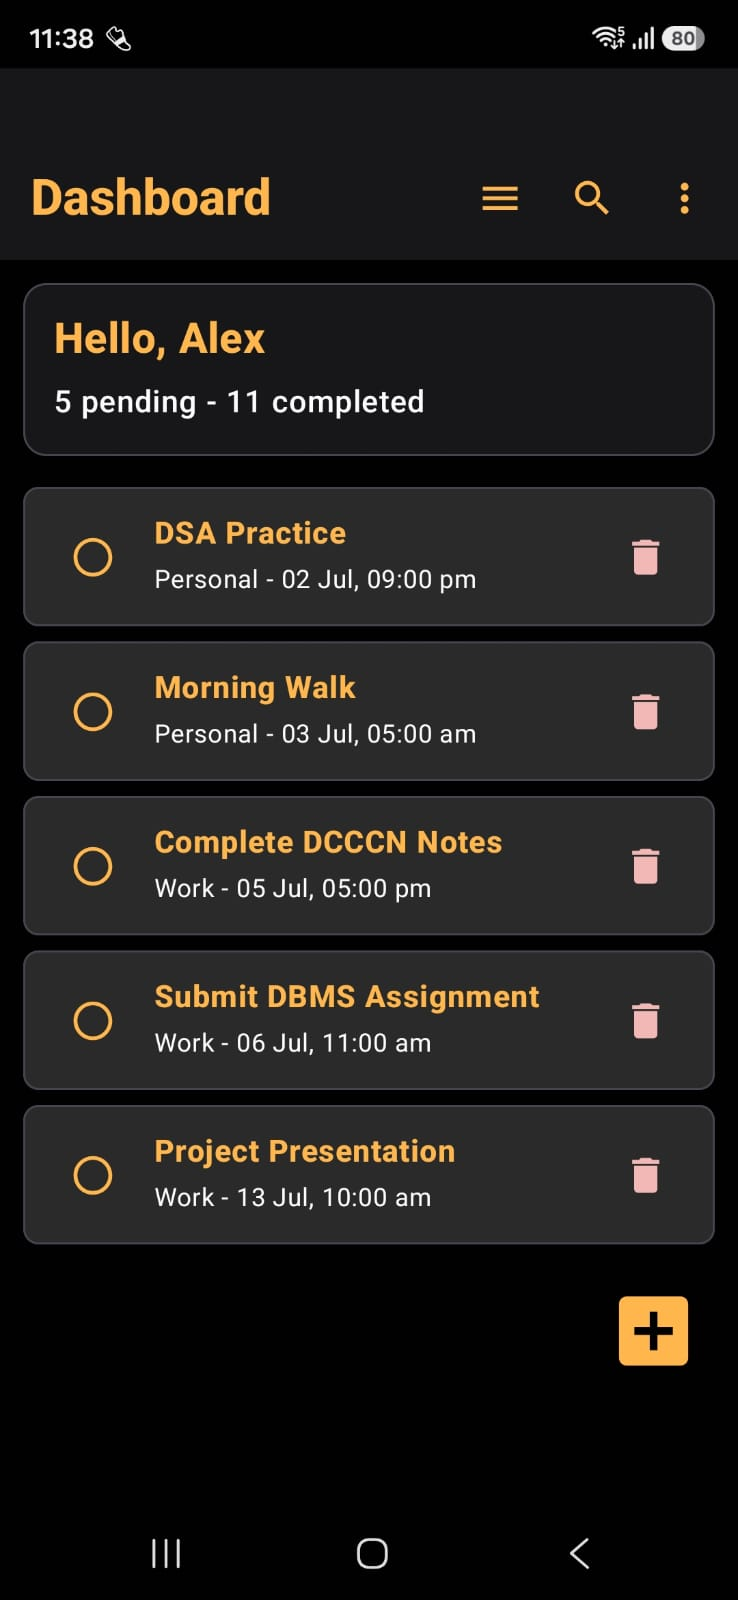
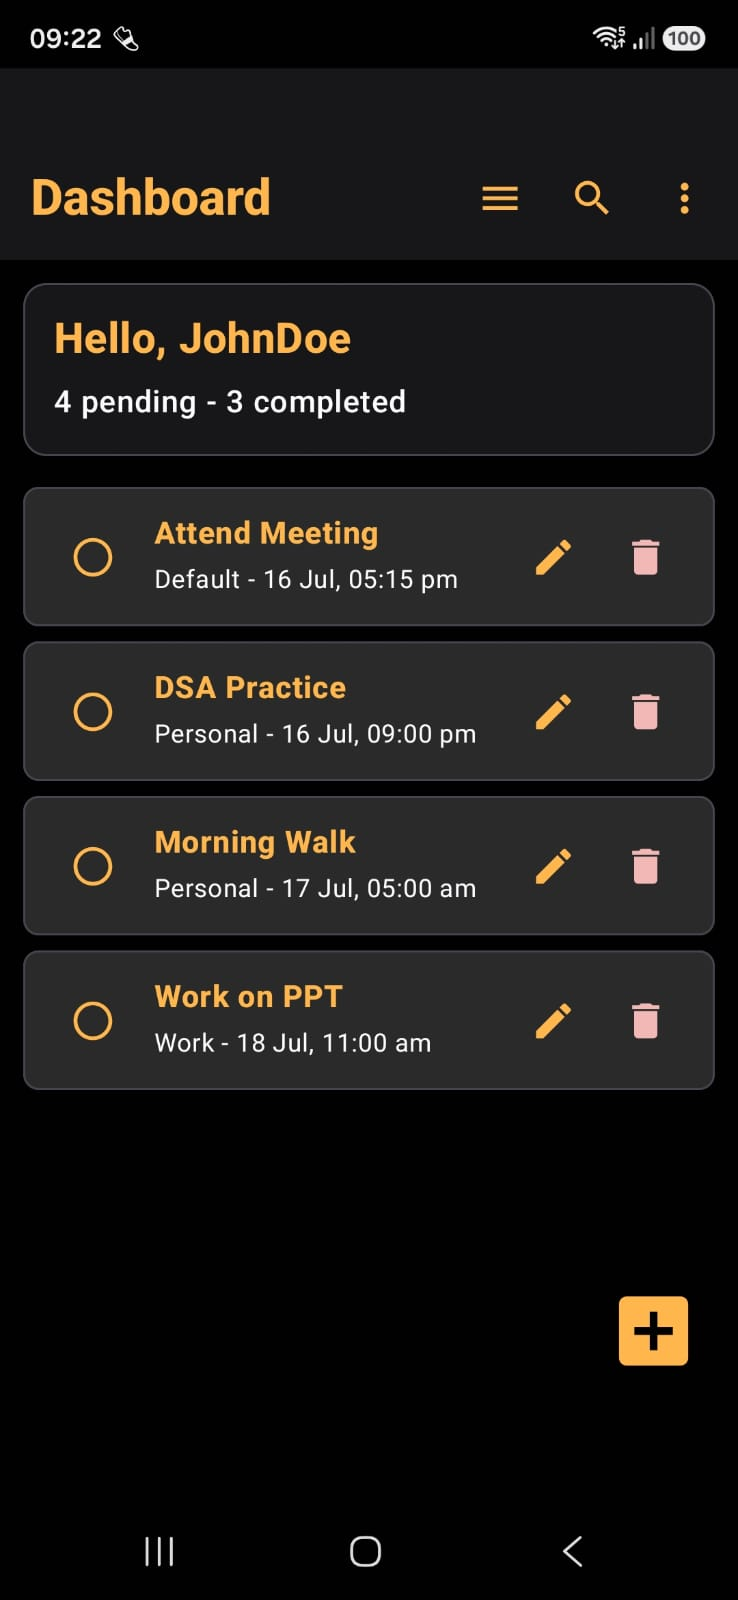
Changes in TaskScreen, onEditTask, Dashboard and Navigation's DashBoard and Updated Screenshots

diff --git a/app/src/main/java/com/application/studenttaskmanager/components/DashBoard.kt b/app/src/main/java/com/application/studenttaskmanager/components/DashBoard.kt
@@ -52,13 +52,14 @@ fun DashBoard(
     user: User,
     onSubmitTask: (TaskDraft) -> Unit,
     onDeleteTask: (TaskItem) -> Unit,
-    onEditTask: (TaskItem) -> Unit,
+    onUpdateTask: (Long, TaskDraft) -> Unit,
     onToggleTask: (TaskItem) -> Unit,
     onNavigate: (String) -> Unit,
     onLogout: () -> Unit,
     modifier: Modifier = Modifier
 ) {
     var showTaskDialog by rememberSaveable { mutableStateOf(false) }
+    var editingTask by rememberSaveable { mutableStateOf<TaskItem?>(null) }
     val lightCardColor = Color.White
     val darkCardColor = Color(0xFF2A2A2A)
     val activeTasks = tasks.filterNot { it.isCompleted }
@@ -98,7 +99,10 @@ fun DashBoard(
                         task = task,
                         cardColor = if (isSystemInDarkTheme()) darkCardColor else lightCardColor,
                         onToggleTask = onToggleTask,
-                        onEditTask = onEditTask,
+                        onEditTask = { task ->
+                            editingTask = task
+                            showTaskDialog = true
+                        },
                         onDeleteTask = onDeleteTask
                     )
                 }
@@ -120,11 +124,20 @@ fun DashBoard(
                         )
                     ) {
                         TaskScreen(
-                            onSubmit = { newTask ->
-                                onSubmitTask(newTask)
+                            task = editingTask,
+                            onSubmit = { draft ->
+
+                                editingTask?.let { task ->
+                                    onUpdateTask(task.id, draft)
+                                } ?: onSubmitTask(draft)
+
                                 showTaskDialog = false
+                                editingTask = null
                             },
-                            onCancel = { showTaskDialog = false }
+                            onCancel = {
+                                showTaskDialog = false
+                                editingTask = null
+                            }
                         )
                     }
                 }

diff --git a/app/src/main/java/com/application/studenttaskmanager/components/Navigaton.kt b/app/src/main/java/com/application/studenttaskmanager/components/Navigaton.kt
@@ -71,6 +71,10 @@ fun Navigation() {
                 DashBoard(
                     tasks = tasks,
                     user = user,
+                    onUpdateTask = { taskId, draft ->
+                        repository.updateTask(taskId, draft)
+                        refreshTasks(user)
+                    },
                     onSubmitTask = { draft ->
                         val savedTask = repository.addTask(user.id, draft)
                         scheduler.schedule(savedTask)